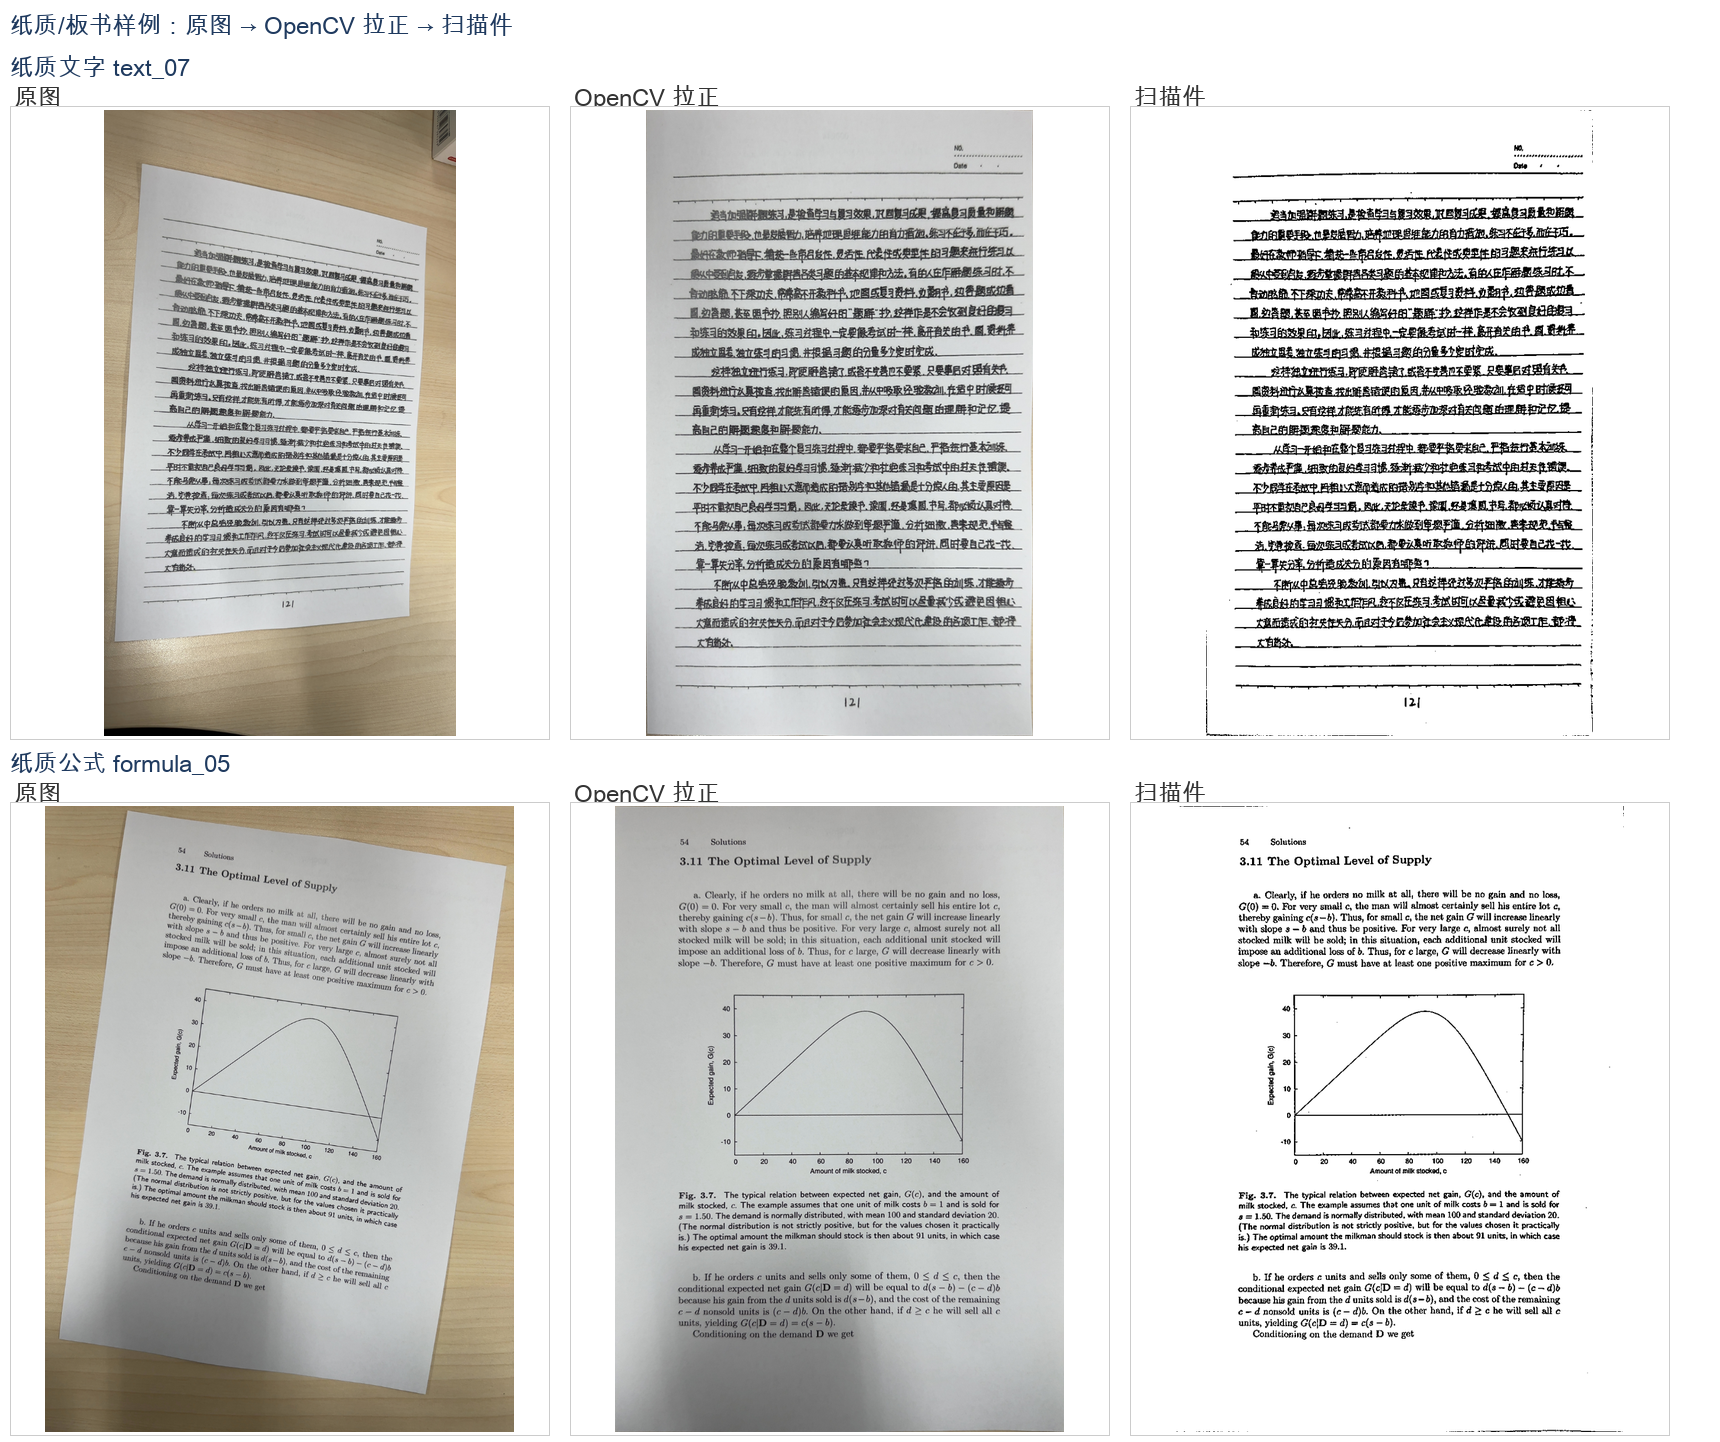
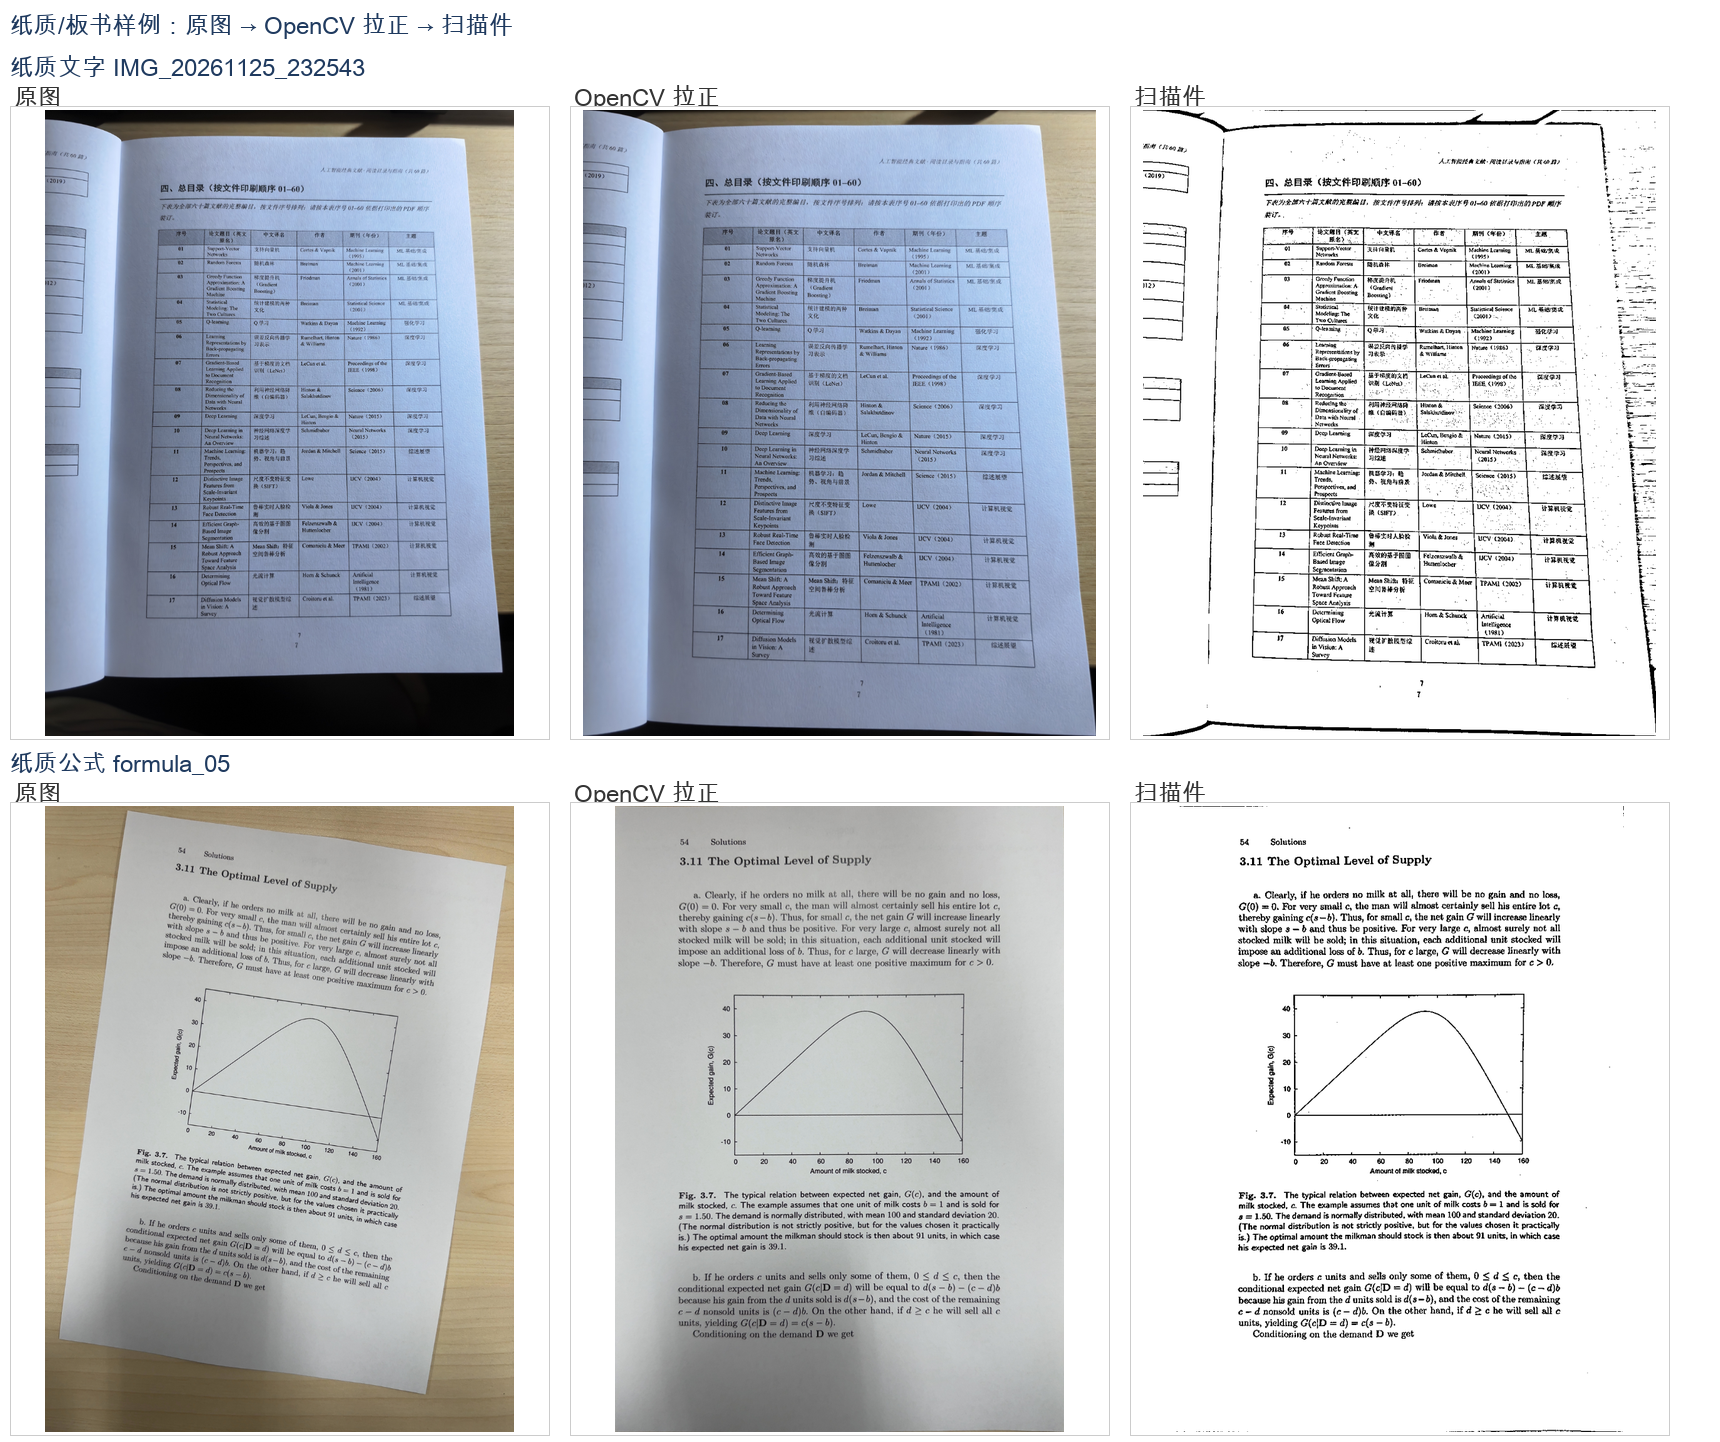
readme: reuse report v1.5 samples in effect figures
- README 1.2 now uses the same PPT/paper samples as report figures 1/9
  (IMG_6233, IMG_6209, IMG_20261125_232543, formula_05)
- keep report figures 1 and 9 unchanged; retain face-free rebuilds of
  figures 2/4/5/13 and the UI demos

diff --git a/scripts/make_readme_examples.py b/scripts/make_readme_examples.py
@@ -82,11 +82,11 @@ def main() -> int:
         ]
 
     ppt_rows = [
-        ("PPT 文字 IMG_5597", process("01_ppt_text/IMG_5597.jpeg")),
-        ("PPT 公式 IMG_5541", process("02_ppt_formula/IMG_5541.jpg")),
+        ("PPT 文字 IMG_6233", process("01_ppt_text/IMG_6233.jpg")),
+        ("PPT 公式 IMG_6209", process("02_ppt_formula/IMG_6209.jpeg")),
     ]
     paper_rows = [
-        ("纸质文字 text_07", process("03_paper_text/text_07.jpg")),
+        ("纸质文字 IMG_20261125_232543", process("03_paper_text/IMG_20261125_232543.jpg")),
         ("纸质公式 formula_05", process("04_paper_formula/formula_05.jpg")),
     ]
     build(ppt_rows, "readme_ppt_effect.png", 620, 470, "投影幕布样例：原图 → OpenCV 拉正 → 扫描件")

diff --git a/CHANGELOG.md b/CHANGELOG.md
@@ -30,7 +30,7 @@
 - 报告新增附录 C：全部产出文档路径索引（表 C1）与在线资源（表 C2：GitHub 仓库、部署地址 ml-proj.losproeocl.cn 承诺维护至 2027-01-01、成员主页、数据集加密归档）。
 - 留证口径更新（docs/04 §2.5、docs/06 验收清单）：以实拍数据集与逐张拍摄元数据为准，原 onsite_* 现场照片要求不再执行；自采数据集加密归档于 GitHub Release。
 - **报告 v1.5 细节修订**：附录 D 的 Release 信息改为表格（表 D1，含资产名/SHA-256/口令/下载与解压命令）；参考文献与附录 A–D 各自独立起页；删除 §9 结尾刻意解释段落；图 9 改为等高对齐布局（上排等宽原图/拉正，下排整幅扫描件）；README 新增 §1.2 效果示例，PPT 与纸质各两张“原图→拉正→扫描件”对照图（`scripts/make_readme_examples.py`，docs/assets/readme_*）。
-- **README 汇总更新（2026-11-28）**：§1.2 效果示例改用无个人信息样本（PPT 文字 IMG_5597 / 公式 IMG_5541，纸质 text_07 / formula_05），新增 §1.3 网页与标注演示（单图分析、训练集标注、标注检查）；§3 补报告与分工交付物；§4 仓库结构补 docs/16–18、record-img 与 runs；§5.1 数据集 Release 表（资产名/SHA-256/口令/下载与解压）；§7.1 贡献量化表（3,705 点，余青阳 27.5%）；修订记录补 M4 冻结。
+- **README 汇总更新（2026-11-28）**：§1.2 效果示例沿用上一版报告图 1/图 9 的样本（PPT 文字 IMG_6233 / 公式 IMG_6209，纸质 IMG_20261125_232543 / formula_05），新增 §1.3 网页与标注演示（单图分析、训练集标注、标注检查）；§3 补报告与分工交付物；§4 仓库结构补 docs/16–18、record-img 与 runs；§5.1 数据集 Release 表（资产名/SHA-256/口令/下载与解压）；§7.1 贡献量化表（3,705 点，余青阳 27.5%）；修订记录补 M4 冻结。
 - **报告图组隐私清理（2026-11-28）**：图 2 数据集总览、图 4/5 标注示例与图 13 过程截图改用无个人信息样本；图 1 与图 9 按评审意见保持原样；图 13 改为 6 张 2×3 截图并同步正文；报告重生成后 51 页。
 - **报告 v1.4（第三轮评审）**：标题去掉副标题并更名 `docs/16-开发历程报告.docx/pdf`；新增 §1.4 里程碑 M1–M4 验收标准；图 9 改为大图（顶部原图/拉正 + 底部全宽扫描件）；图 13 并入 record-img 全部 10 张截图（2 列 ×5 行，13 cm 宽）；目录改为 Word TOC 域 + PDF 两遍生成页码（打开 DOCX 可自动更新）；§9 贡献改为加权点数折算百分比（公式、系数、逐项计数与岗位责任分，合计 3705 点；余青阳 27.5%，其余 10.1%–11.1%），docs/18 同步；图注删除“效果良好版本”。
 - **指标图更新（2026-11-28）**：报告图 7/8/10/11 由 v4 时期旧图替换为 v5 版本——图 7 门控训练曲线（恢复重建版 2,149/900）、图 8 纸质分支 s45/s47 曲线、图 10 v5 验证集指标与五折 CV、图 11 v5 验证集路由混淆矩阵（26/2/6/17，84.31%）；新增图 20「正式冻结 vs 恢复权重复评」对照（93.06→90.28、自采 88.10→83.33、外部 100/100）。生成脚本 `scripts/make_metrics_figures_v5.py`。

diff --git a/README.md b/README.md
@@ -50,7 +50,7 @@
 
 ![纸质样例](docs/assets/readme_paper_effect.png)
 
-上图为自采数据集样本的实际链路输出：原图经载体门控进入对应分支，OpenCV 拉正（Canny 50/150）后输出扫描件（自适应二值化），覆盖投影幕布文字/公式与纸质文字/公式四类。对外示例均选用不含人脸与可识别个人信息的样本；原图不纳入版本控制，效果图由 `scripts/make_readme_examples.py` 重新生成，完整评估图见 `reports/figures/`。
+上图为报告图 1 与图 9 同一批样本的实际链路输出：原图经载体门控进入对应分支，OpenCV 拉正（Canny 50/150）后输出扫描件（自适应二值化），覆盖投影幕布文字/公式与纸质文字/公式四类。示例沿用上一版报告的样本，便于与报告正文对照；原图不纳入版本控制，效果图由 `scripts/make_readme_examples.py` 重新生成，完整评估图见 `reports/figures/`。
 
 ### 1.3 网页与标注演示
 
